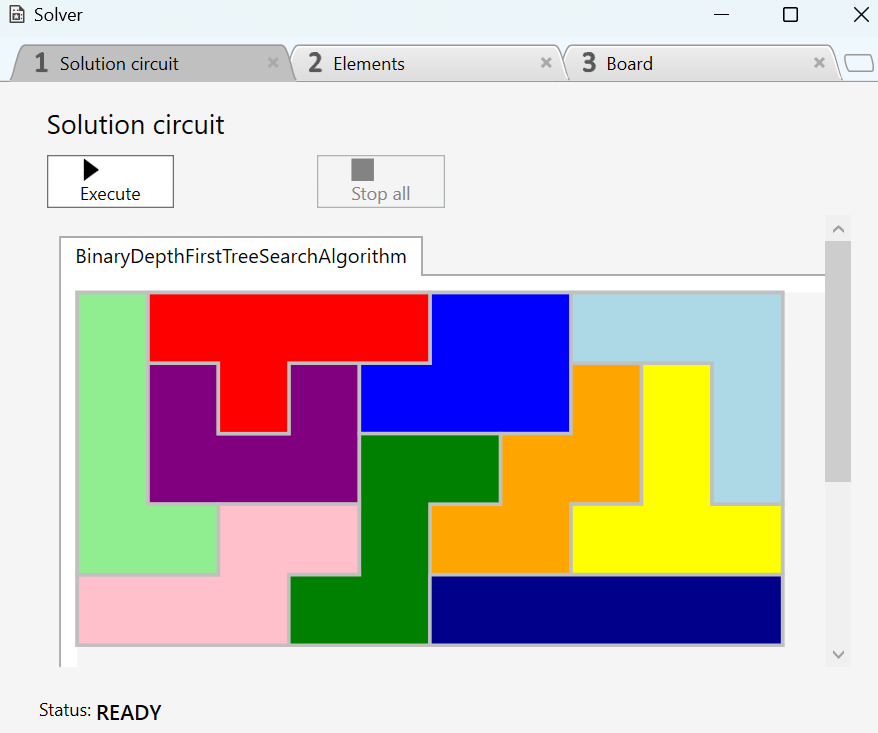
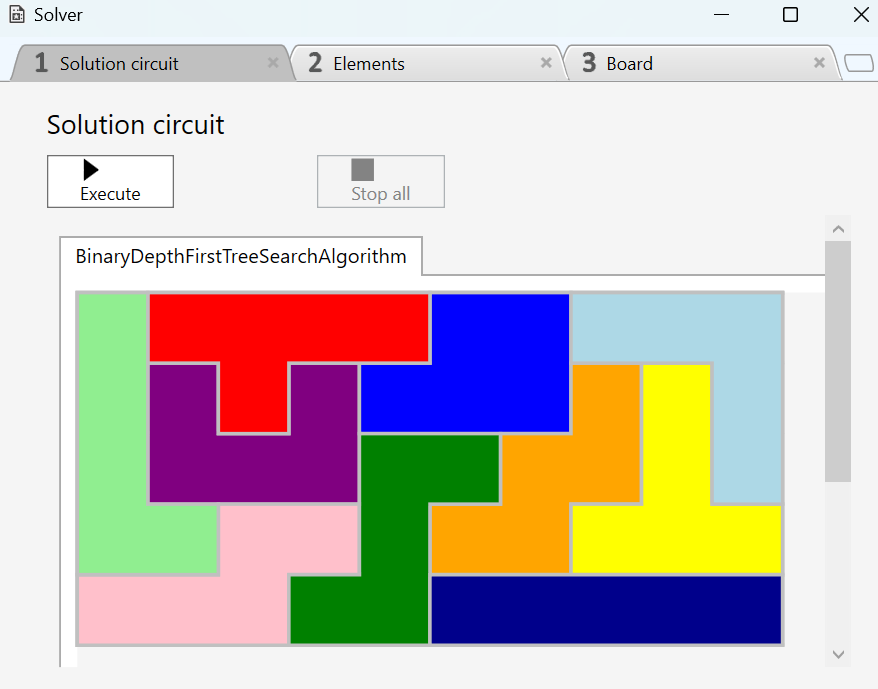
.

diff --git a/README.md b/README.md
@@ -7,8 +7,9 @@ The GENIUS Star
 The GENIUS Square
 The GENIUS Junior
 ```
-# Example solution - binary depth-first solver
+# Example solutions - binary depth-first solver
 ![PolishBigBoardWithBinaryTreeSolver.png](./results/PolishBigBoardWithBinaryTreeSolver.png)
+![Solution2.png](./results/Solution2.png)
 
 # Some usefull information
 ## Online polygons creator
